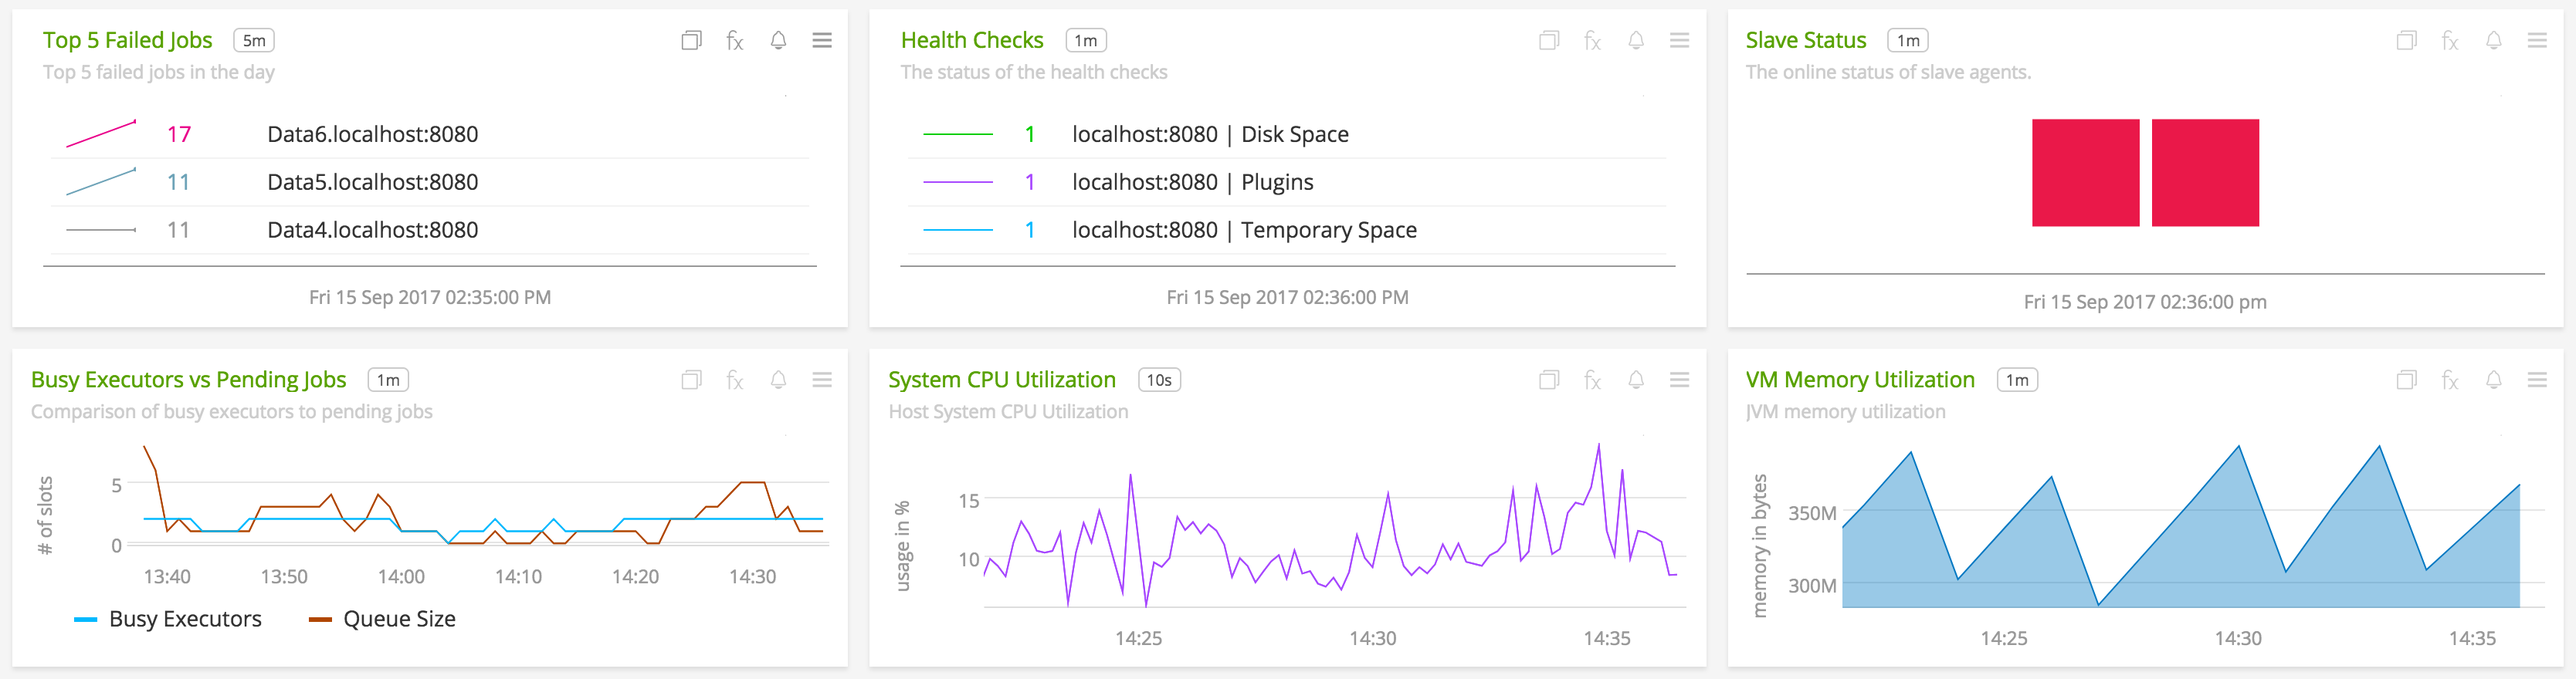
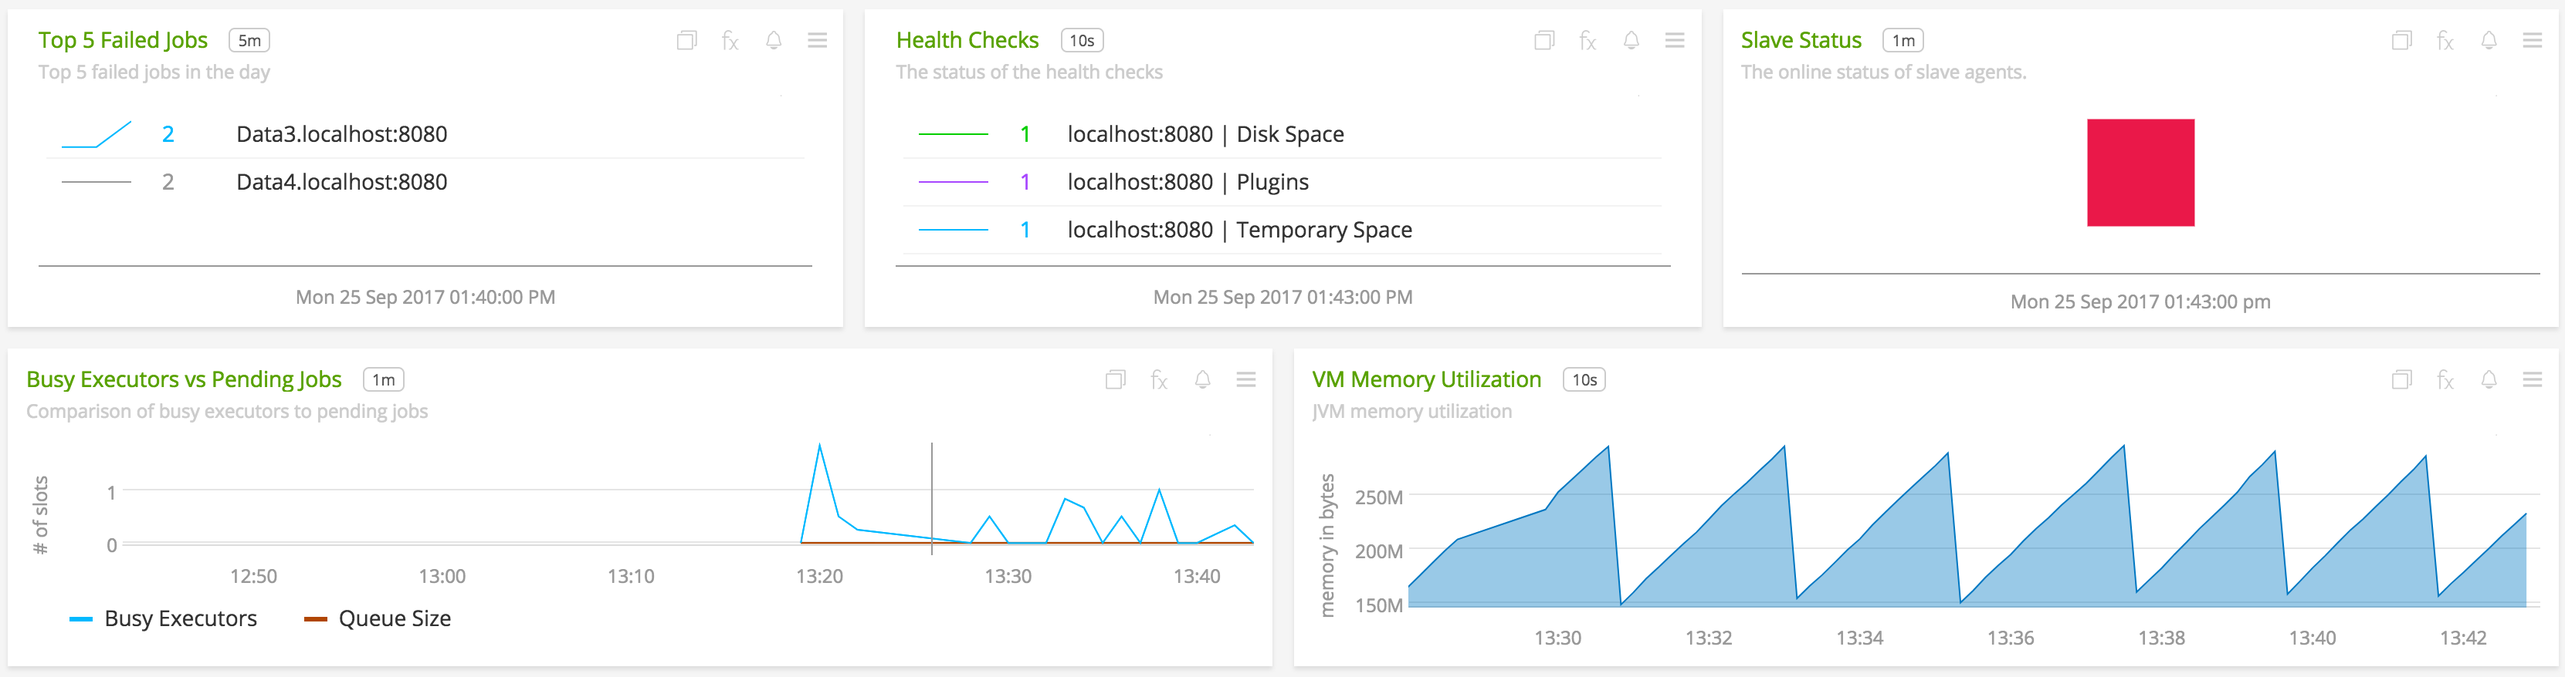
Changes README and dashboard

diff --git a/collectd-jenkins/README.md b/collectd-jenkins/README.md
@@ -197,10 +197,6 @@ LoadPlugin python
   - **Busy Executors vs Pending Jobs**: A line chart showing comparison between in-use executors and pending jobs in queue in an instance(s). On comparing this chart with two above, reason for job failures can be narrowed down further quickly.
   
       [<img src='./img/chart-jenkins-master-busy-executors-vs-pending-jobs.png' width=200px>](./img/chart-jenkins-busy-executors-vs-pending-jobs.png)
-
-  - **System CPU Utilization** A line graph showing system CPU utilization by a particular host.
-
-    [<img src='./img/chart-jenkins-master-system-cpu-utilization.png' width=200px>](./img/chart-jenkins-master-system-cpu-utilization.png)
   
   - **VM Memory Utilization**: Area chart of the memory used by the Jenkins JVM instance(s) on a host.
   
